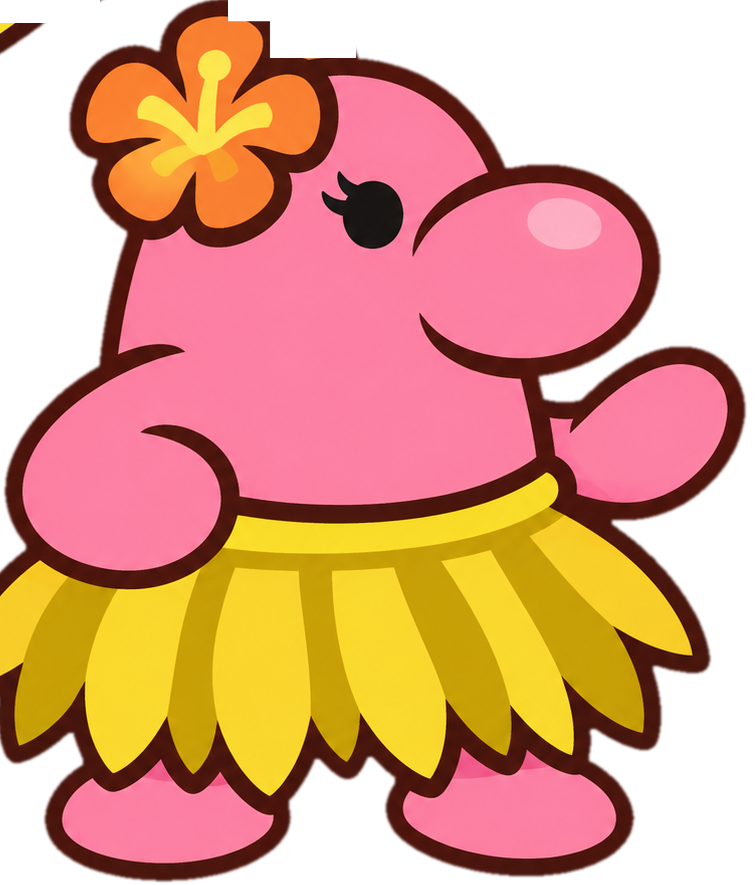
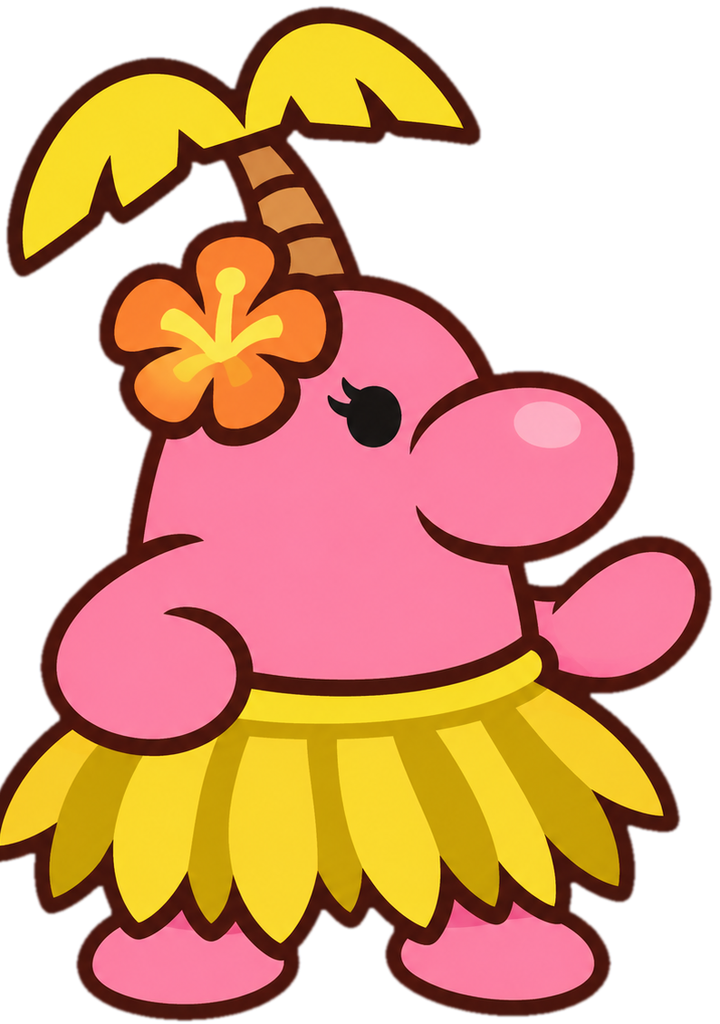
Zoom her out: palm tree poking out of the top, wave across her waist
The previous crop showed only her head and shoulders at a large size. The header crop is
now her whole figure, palm included, drawn smaller in a taller header so the palm tree
clearly rises above the top edge and the wave crosses her at the waist, with a sliver of
her yellow skirt above it. The face crop keeps its palm bits erased.

diff --git a/carol_aio/bubble.py b/carol_aio/bubble.py
@@ -17,7 +17,7 @@ from PIL import Image, ImageChops, ImageDraw, ImageFilter
 from carol_aio.icon import bust_image, name_image
 
 SS = 3  # drawn this many times larger, then shrunk, so the edges are smooth
-NECK = 0.54  # how far down her picture the wave crosses her (0 is the top, 1 the bottom)
+NECK = 0.70  # how far down her picture the wave crosses her (0 is the top, 1 the bottom)
 Point = tuple[float, float]
 
 
@@ -100,12 +100,12 @@ def render(
     s = scale
     margin, top, pad, line, radius = (
         s(18),
-        s(44),
+        s(60),
         s(10),
         s(2),
         s(22),
     )  # top: room for her to poke out
-    band, amplitude, wavelength, tail_h = s(72), s(3), s(46), s(16)
+    band, amplitude, wavelength, tail_h = s(112), s(3), s(46), s(16)
     body_w = content_w + 2 * pad
     clear = line + s(
         3
@@ -136,9 +136,9 @@ def render(
 
     # Her head and upper body rise out of the band, over the top edge. The body below the wave
     # is in front of her, so the wave reads as the top of her outfit.
-    figure_h = s(196)
+    figure_h = s(232)
     figure = bust_image(figure_h * SS)
-    figure_x = (x0 + s(4)) * SS
+    figure_x = (x0 + s(6)) * SS
     figure_y = round((y0 + band - NECK * figure_h) * SS)  # where the wave crosses her
     placed = Image.new("RGBA", layer.size, (0, 0, 0, 0))
     placed.alpha_composite(figure, (figure_x, figure_y))
@@ -158,7 +158,7 @@ def render(
     out.alpha_composite(bubble)
 
     # The name sits beside her, on the band.
-    baseline = y0 + s(48)
-    name = name_image(s(26), colors.on_sea)
-    out.alpha_composite(name, (x0 + s(4) + round(figure.width / SS) + s(8), baseline - name.height))
+    baseline = y0 + s(68)
+    name = name_image(s(28), colors.on_sea)
+    out.alpha_composite(name, (x0 + s(6) + round(figure.width / SS) + s(6), baseline - name.height))
     return Bubble(out, x0 + pad, y0 + band + amplitude + clear, margin, y0)

diff --git a/assets/build_icons.py b/assets/build_icons.py
@@ -15,9 +15,9 @@ SOURCE = HERE / "pianta_source.png"
 SIZES = [16, 24, 32, 48, 64, 128, 256]
 FACE_PX = 512
 FACE_BOX = (335, 285, 975, 705)  # flower, eye and nose, in source-image pixels
-BUST_BOX = (290, 285, 1045, 1170)  # her whole figure from the flower down: a tall rectangle
+BUST_BOX = (250, 40, 1045, 1170)  # her whole figure, palm to feet: a tall rectangle
 BUST_PX = 1024  # only the top of it is shown at a time, so it is kept sharper
-# Bits of the palm that poke into the top of the crops, in source-image pixels.
+# Bits of the palm that poke into the top of the face crop, in source-image pixels.
 ERASE = [
     [(518, 255), (646, 255), (646, 343), (560, 343), (560, 306), (518, 306)],  # the trunk
     [(290, 255), (390, 255), (390, 308), (290, 308)],  # a yellow frond
@@ -78,10 +78,10 @@ def rounded_tile(source: Image.Image) -> Image.Image:
 
 
 def main() -> None:
-    figure = erase(cut_out(Image.open(SOURCE)), ERASE)
-    for name, box, size in (
-        ("pianta_face.png", FACE_BOX, FACE_PX),
-        ("pianta_bust.png", BUST_BOX, BUST_PX),
+    cutout = cut_out(Image.open(SOURCE))
+    for name, figure, box, size in (
+        ("pianta_face.png", erase(cutout, ERASE), FACE_BOX, FACE_PX),
+        ("pianta_bust.png", cutout, BUST_BOX, BUST_PX),  # keeps the palm
     ):
         crop = figure.crop(box)
         crop.thumbnail((size, size), Image.Resampling.LANCZOS)
